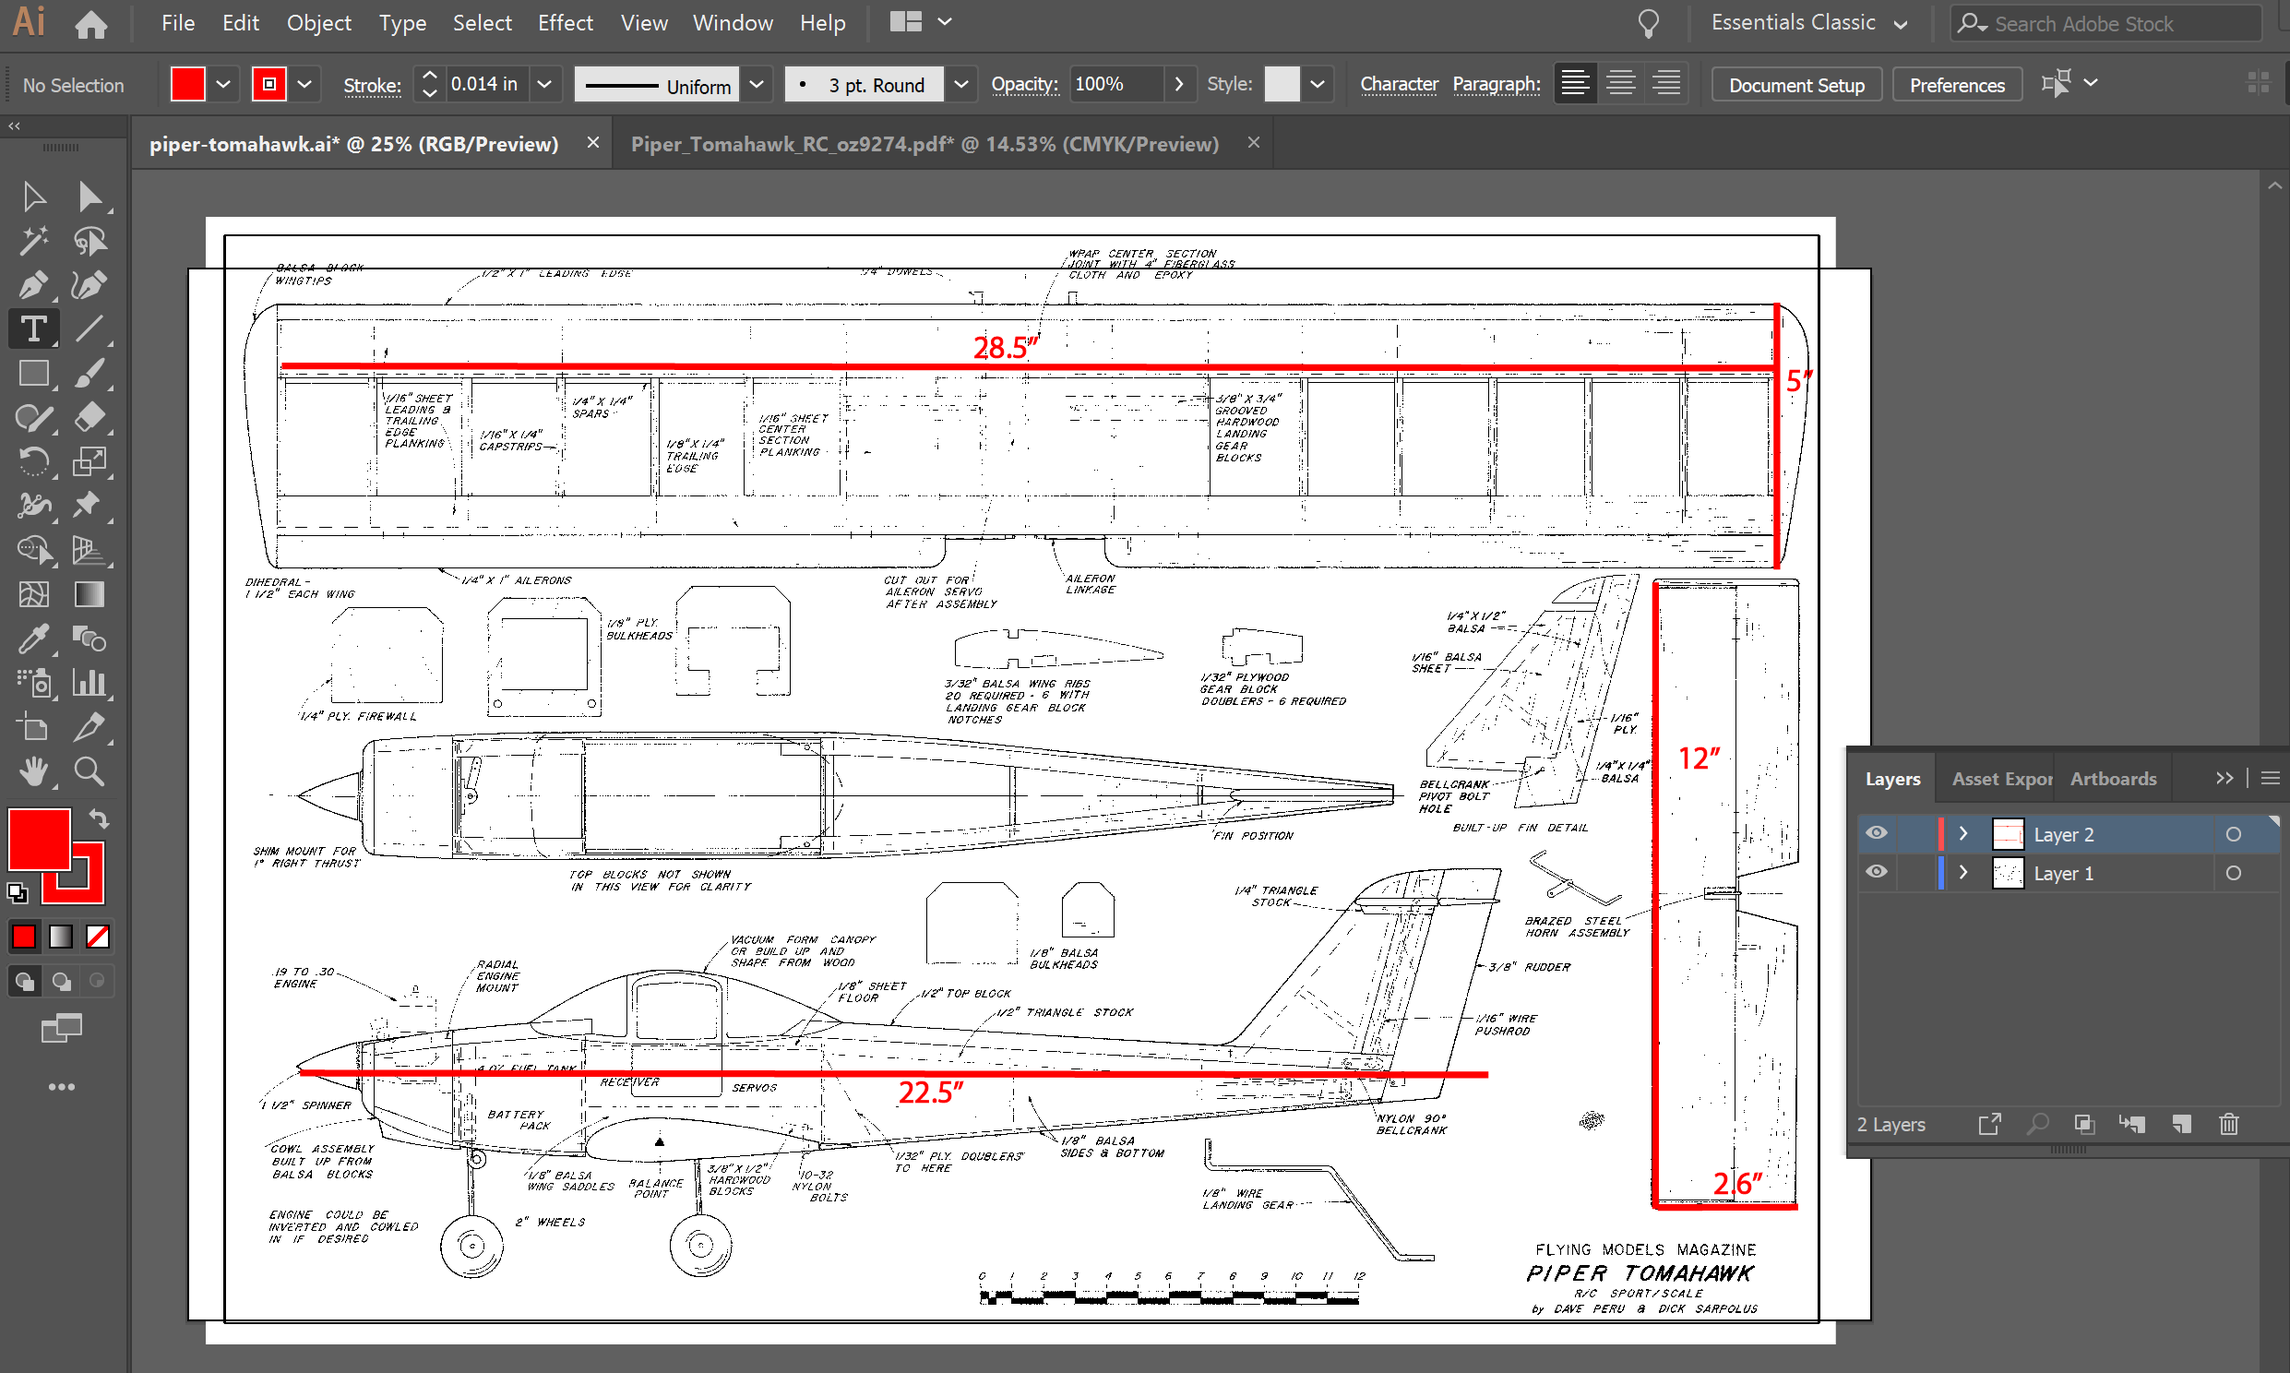
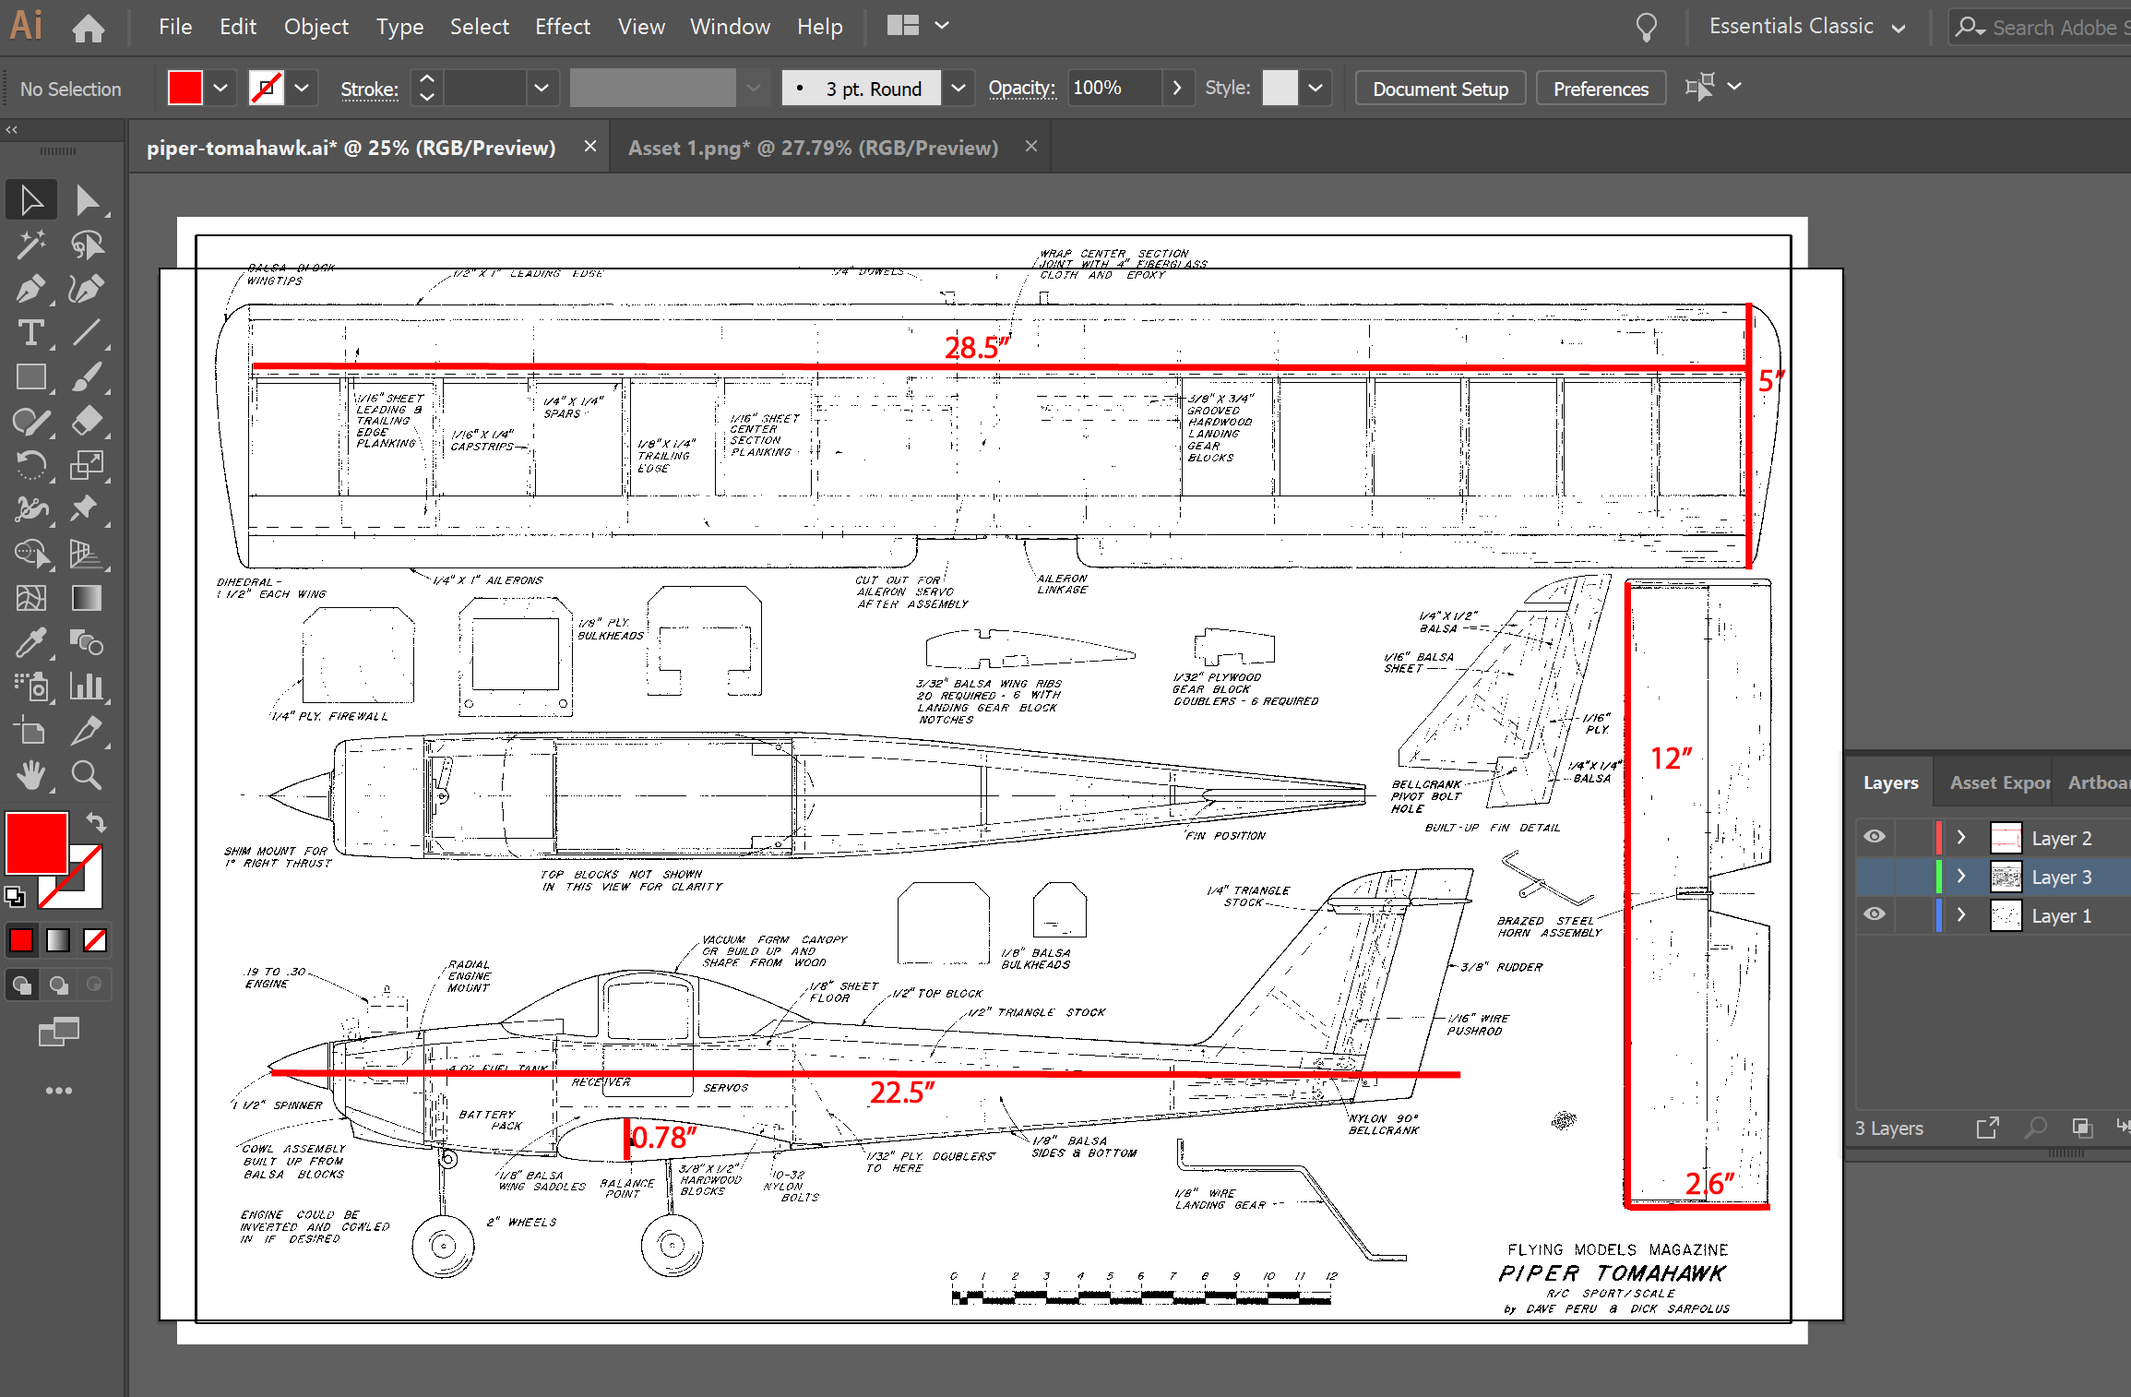
Almost ready to cad a wing.

diff --git a/assignment7.html b/assignment7.html
@@ -792,7 +792,7 @@
               <li>Use specialized airfoils for the basic shape</li>
               <li>
                 Lay a 3d-printed "adaptor" on the top that has an
-                assingment 3 style groove for the airofil side and a
+                assingment 3 style groove for the airfoil side and a
                 round hole on the other side for attaching the prop.
               </li>
             </ul>
@@ -824,7 +824,7 @@
           <li><strong>Download the Plans.</strong>
             Came as JPG, so far, so good.
           </li>
-          <li><strong>Isolate an Airofil.</strong>
+          <li><strong>Isolate an airfoil.</strong>
             Open in Paint.net (Right-click/Edit in Win10), select an airfoil
             from the overall plans, copy.
           </li>
@@ -890,7 +890,7 @@
         <p>
           Next, I'll grab that airfoil I made earlier, set the chord length
           to 154 mm, import into OnShape, and see if I can scale my fowler flap mechansim from
-          Assingment 4 to fit. Nice, OnShape interpreted my 154 mm airofil as
+          Assingment 4 to fit. Nice, OnShape interpreted my 154 mm airfoil as
           8037mm.
         </p>
 
@@ -1004,203 +1004,212 @@
           <strong>8:49 pm What's the biggest airfoil I can make with FR-1?</strong>
           The standard size is 100 x 70mm, which yields a max chord lenth of
           about 122 mm according to Pythagoras, so trim it to
-          <strong> 118 mm </strong>  to allow some  slop on the ends. Only the a
-          irofils near the tips are that small, so <strong> airfoils that
-            connect to flaps and ailerons will need to be Acrylic.</strong>
-            The ailerons and flaps themselves? Those could be FR-1.
-          </p>
+          <strong> 118 mm </strong>
+          to allow some  slop on the ends. Only the a
+          irofils near the tips are that small, so
+          <strong>
+            airfoils that
+            connect to flaps and ailerons will need to be Acrylic.
+          </strong>
+          The ailerons and flaps themselves? Those could be FR-1.
+        </p>
 
-          <p><strong>What will my linkages look like?</strong>
-            The simple "hinge-type" linkages for ailrons, elevons and rudders
-            will involve a "wing airfoil" made of 1/8 inch Acrylic connected to
-            a small "control surface airfoii" mae fo FR-1 with a single pin. Fowler
-            flaps would also involve a 1/8 inch Acrylic "wing airfoil" connected
-            to an FR-1 "flap airfoil," but there would be multiple FR1 linkages
-            in between. Pulling up one of the images from Assingment 4 ...
-          </p>
+        <p><strong>What will my linkages look like?</strong>
+          The simple "hinge-type" linkages for ailrons, elevons and rudders
+          will involve a "wing airfoil" made of 1/8 inch Acrylic connected to
+          a small "control surface airfoii" mae fo FR-1 with a single pin. Fowler
+          flaps would also involve a 1/8 inch Acrylic "wing airfoil" connected
+          to an FR-1 "flap airfoil," but there would be multiple FR1 linkages
+          in between. Pulling up one of the images from Assingment 4 ...
+        </p>
 
-          <figure>
-            <img src ="img/hcde598-hw04-pic33-link-alignment.png" width=400>
-            <figcaption>  Blast from the past.</figcaption>
-          </figure>
+        <figure>
+          <img src ="img/hcde598-hw04-pic33-link-alignment.png" width=400>
+          <figcaption>  Blast from the past.</figcaption>
+        </figure>
 
-          <p>
-            Checking each Pin I have ....
-          </p>
+        <p>
+          Checking each Pin I have ....
+        </p>
 
-          <iframe height=400 width=400 src="https://docs.google.com/spreadsheets/d/e/2PACX-1vSfr58PI84Lw0bxRB_hDwB3S58EXNLZKKuDSBa_54sS-jRydxPhODfZBCpM8ejxprT9Q3RlNjXX1Q0k/pubhtml?gid=1409531949&amp;single=true&amp;widget=true&amp;headers=false">
-          </iframe>
+        <iframe height=400 width=400 src="https://docs.google.com/spreadsheets/d/e/2PACX-1vSfr58PI84Lw0bxRB_hDwB3S58EXNLZKKuDSBa_54sS-jRydxPhODfZBCpM8ejxprT9Q3RlNjXX1Q0k/pubhtml?gid=1409531949&amp;single=true&amp;widget=true&amp;headers=false">
+        </iframe>
 
-          <p>
-            Ok, that confirms every linkage is either FR1-FR1 or FR1-Acryllic;
-            no other combinations.  Now I know I'm looking for mmaterial
-            thickness of <strong> 0.13 and 0.19 inches</strong> (unless and until
-            yet another brain burp convinces me otherwise).
-          </p>
+        <p>
+          Ok, that confirms every linkage is either FR1-FR1 or FR1-Acryllic;
+          no other combinations.  Now I know I'm looking for mmaterial
+          thickness of <strong> 0.13 and 0.19 inches</strong> (unless and until
+          yet another brain burp convinces me otherwise).
+        </p>
 
-          <p>
-            <em>Now</em> Let's go back to McMaster-Carr.
-          </p>
+        <p>
+          <em>Now</em> Let's go back to McMaster-Carr.
+        </p>
 
-          <iframe  height=240 width=400 src="https://docs.google.com/spreadsheets/d/e/2PACX-1vSfr58PI84Lw0bxRB_hDwB3S58EXNLZKKuDSBa_54sS-jRydxPhODfZBCpM8ejxprT9Q3RlNjXX1Q0k/pubhtml?gid=570750315&amp;single=true&amp;widget=true&amp;headers=false">
-          </iframe>
+        <iframe  height=240 width=400 src="https://docs.google.com/spreadsheets/d/e/2PACX-1vSfr58PI84Lw0bxRB_hDwB3S58EXNLZKKuDSBa_54sS-jRydxPhODfZBCpM8ejxprT9Q3RlNjXX1Q0k/pubhtml?gid=570750315&amp;single=true&amp;widget=true&amp;headers=false">
+        </iframe>
 
-          <p>
-            Okay, I'm liking this. Two choices for each thickenss.  I'll be
-            committed to Click-Lock shanks for Acrylic-to-FR1 connections, but
-            will have a choice between Click-Lock and Arrow for FR1-to-FR1.
-            Now I'm gonna take a break, think things over then place the order if
-            I'm still feeling good about it.
-          </p>
-
-
-        </div>
-
-        <!-- 10:15pm Finally Order Parts -->
-        <div id = "day-04-10:15pm-order-parts">
-          <h3>10:15-10:40pm Order the Parts (Finally) </h3>
-          <p>
-            FR-1 will arrive from Amazon Thurday May 30; Push Rivets will
-            arrive Wednseday May 29. I'll be ready to all-day-fab-days on
-            Saturday and Sunday.
-          </p>
-
-        </div>
-
-      </div> <!-- day 4 -->
+        <p>
+          Okay, I'm liking this. Two choices for each thickenss.  I'll be
+          committed to Click-Lock shanks for Acrylic-to-FR1 connections, but
+          will have a choice between Click-Lock and Arrow for FR1-to-FR1.
+          Now I'm gonna take a break, think things over then place the order if
+          I'm still feeling good about it.
+        </p>
 
 
+      </div>
 
-      <!-- ***************  DAY FIVE  *************** -->
+      <!-- 10:15pm Finally Order Parts -->
+      <div id = "day-04-10:15pm-order-parts">
+        <h3>10:15-10:40pm Order the Parts (Finally) </h3>
+        <p>
+          FR-1 will arrive from Amazon Thurday May 30; Push Rivets will
+          arrive Wednseday May 29. I'll be ready to all-day-fab-days on
+          Saturday and Sunday.
+        </p>
 
-      <div id="day-05">
+      </div>
 
-        <h2>DAY FIVE The Wing's Not The Thing; Turn Back to Tomahawk</h2>
-        <ul>
-          <li>Date: <strong>Tuesday 5/28/19</strong></li>
-          <li>Time: <strong>9:05pm-?????</strong></li>
-          <li>Location: <strong>Home (Sammamish, WA)</strong></li>
-          <li>Goals:
-            <ul>
-              <strong>
-                <li>Finish the Pitch</li>
-                <li>Start Some Cad</li>
-              </strong>
-            </ul>
-          </li>
-          <li>Steps Planned:
-            <ol><strong>
-              <li> Finish the Pitch</li>
-              <li> CAD up the basic wings </li>
-              <li> CAD up a flat fuselage</li>
-            </strong></ol>
-          </li>
+    </div> <!-- day 4 -->
 
-          <li>Steps Taken:
-            <ol><strong>
-              <li> This one </li>
-              <li> That one </li>
-            </strong></ol>
-          </li>
 
-          <li>Roadblocks & Impacts:
+
+    <!-- ***************  DAY FIVE  *************** -->
+
+    <div id="day-05">
+
+      <h2>DAY FIVE The Wing's Not The Thing; Turn Back to Tomahawk</h2>
+      <ul>
+        <li>Date: <strong>Tuesday 5/28/19</strong></li>
+        <li>Time: <strong>9:05pm-11:28pm</strong></li>
+        <li>Location: <strong>Home (Sammamish, WA)</strong></li>
+        <li>Goals:
+          <ul>
             <strong>
-              Been thrashing between Flying Wing and Tomahawk.  Need to make a
-              decision & stick to it. Worried about really being ready for 100%
-              fab ty Saturday monring.
+              <li>Finish the Pitch</li>
+              <li>Start Some Cad</li>
+            </strong>
+          </ul>
+        </li>
+        <li>Steps Planned:
+          <ol><strong>
+            <li> Finish the Pitch</li>
+            <li> CAD up the basic wings </li>
+            <li> CAD up a flat fuselage</li>
+          </strong></ol>
+        </li>
+
+        <li>Steps Taken:
+          <ol><strong>
+            <li> This one </li>
+            <li> That one </li>
+          </strong></ol>
+        </li>
+
+        <li>Roadblocks & Impacts:
+          <strong>
+            Been thrashing between Flying Wing and Tomahawk.  Need to make a
+            decision & stick to it. Worried about really being ready for 100%
+            fab ty Saturday monring.
           </strong>
         </li>
-          <li>Satisfaction (1-5): <strong>3 (worried about deadlines.)</strong></li>
-        </ul>
+        <li>Satisfaction (1-5): <strong>3 (worried about deadlines.)</strong></li>
+      </ul>
 
-        <h3>Finish up Slides Already</h3>
+      <h3>Finish up Slides Already</h3>
 
-        <p>
-          Updated BOM & Sourdinb shedule to reflec t part I alrready have on oder.
-          Tweak Techniques & materials to hype up parmateric wings and 2D vs 3D
-          CAD. Also added a third slide for the wing idea. That should do it.
-        </p>
+      <p>
+        Updated BOM & Sourdinb shedule to reflec t part I alrready have on oder.
+        Tweak Techniques & materials to hype up parmateric wings and 2D vs 3D
+        CAD. Also added a third slide for the wing idea. That should do it.
+      </p>
 
-        <h3>On to CADDING</h3>
+      <h3>On to CADDING</h3>
 
+      <p>
+        <strong>Figure out the Main Dimensions</strong>
+        Similar to what I did for the Northrop Wing. Constrain it to about 32
+        inches wide so it fits on either laser cutton in the MILL, and also
+        one of them at Fluke. So really that's
+        <strong> 30 inches max </strong>
+        to allow some slop at the edges.  Now, pull those plans into
+        Adobe Ilustrator so I can figure out dimensions of the rest of  the
+        parts.
+      </p>
 
-        <p>
-          <strong>Figure out the Main Dimensions</strong>
-          Similar to what I did for the Northrop Wing. Constrain it to about 32
-          inches wide so it fits on either laser cutton in the MILL, and also
-          one of them at Fluke. So really that's
-           <strong> 30 inches max </strong>
-           to allow some slop at the edges.  Now, pull those plans into
-           Adobe Ilustrator so I can figure out dimensions of the rest of  the
-           parts.
-        </p>
-
-        <p>
-          <strong>Find a Plan to Make a Plan</strong>
-          As with the Nothrop Flying Wing, Imma need some plans. A bit of googling
-          brought mulitple promising candidates, but my fave once again came from
-          <a href ="https://outerzone.co.uk/plan_details.asp?ID=9274">
+      <p>
+        <strong>Find a Plan to Make a Plan</strong>
+        As with the Nothrop Flying Wing, Imma need some plans. A bit of googling
+        brought mulitple promising candidates, but my fave once again came from
+        <a href ="https://outerzone.co.uk/plan_details.asp?ID=9274">
           outerzone.co.uk
         </a>
         again.
-        </p>
+      </p>
 
-        <figure>
-          <img src ="img/hcde598-hw07-pic05-piper-tomahawk-plans.png" width=800>
-          <figcaption>
-            Now <em>this</em> I can use. Original at
-            <a href ="https://outerzone.co.uk/plan_details.asp?ID=9274">
+      <figure>
+        <img src ="img/hcde598-hw07-pic05-piper-tomahawk-plans.png" width=800>
+        <figcaption>
+          Now <em>this</em> I can use. Original at
+          <a href ="https://outerzone.co.uk/plan_details.asp?ID=9274">
             outerzone.co.uk
           </a>
-          </figcaption>
-        </figure>
+        </figcaption>
+      </figure>
 
-        <p>
-          Download the plans as native PDF, open Adobe Illustrator and with a
-          blank 32x22 inch document, impor the PDF and ...
-        </p>
+      <p>
+        Download the plans as native PDF, open Adobe Illustrator and with a
+        blank 32x22 inch document, impor the PDF and ...
+      </p>
 
-        <figure>
-          <img src ="img/hcde598-hw07-pic05-piper-tomahawk-plans-in-ai.png" width=800>
-          <figcaption>
-            Plan boundaries overshoot in Y, but the actual drawing fits.
-          </figcaption>
-        </figure>
+      <figure>
+        <img src ="img/hcde598-hw07-pic05-piper-tomahawk-plans-in-ai.png" width=800>
+        <figcaption>
+          Plan boundaries overshoot in Y, but the actual drawing fits.
+        </figcaption>
+      </figure>
 
-        <p>
-          Add some lines, measure, and markup.  Use Illustrator's layering features
-          to isolate dimensions form the drawing.
-        </p>
+      <p>
+        Add some lines, measure, and markup.  Use Illustrator's layering features
+        to isolate dimensions form the drawing.
+      </p>
 
-        <figure>
-          <img src ="img/hcde598-hw07-pic05-piper-tomahawk-plans-dimensioned.png"  width=800>
-          <figcaption>
-            28.5 x 5 inch wing; 12 x 2.6 inch stabilizer; 22.5 inch fuselage
-          </figcaption>
-        </figure>
+      <figure>
+        <img src ="img/hcde598-hw07-pic05-piper-tomahawk-plans-dimensioned.png"  width=800>
+        <figcaption>
+          28.5 x 5 inch wing; 12 x 2.6 inch stabilizer; 22.5 inch fuselage
+        </figcaption>
+      </figure>
 
-        <p>
-          <strong>Vectorize</strong>
-          Using the same technique as for the Northrop wing, added the Tomahawk
-          plans into Illustrator <em>as an image.</em>  Then use Object Menu >
-          Image Trace > Expand. Export as SVG (DXF wasn't availabe) this time.
-          Pulls into Rhno just fine, where I can use control point curves to trace
-          out the fuselage.
-        </p>
+      <p>
+        <strong>Vectorize</strong>
+        Using the same technique as for the Northrop wing, added the Tomahawk
+        plans into Illustrator <em>as an image.</em>  Then use Object Menu >
+        Image Trace > Expand. Export as SVG (DXF wasn't availabe) this time.
+        Pulls into Rhno just fine, where I can use control point curves to trace
+        out the fuselage.
+      </p>
 
-        <figure>
-          <img src ="img/hcde598-hw07-pic06-piper-tomahawk-plans-rhino.png"  width=800>
-          <figcaption>
-            Tomahawk Plans in Rhino, with Extracted Fuselage.
-          </figcaption>
-        </figure>
+      <figure>
+        <img src ="img/hcde598-hw07-pic06-piper-tomahawk-plans-rhino.png"  width=800>
+        <figcaption>
+          Tomahawk Plans in Rhino, with Extracted Fuselage.
+        </figcaption>
+      </figure>
 
-        
+      <h3>Settle Down and CAD a Wing</h3>
+      <p>
+        It's gonna be 28.5" span, 5" long airfoils 0.78" thick. Horizonatl stabilizer
+        will b 12" by 2;6" with an unusually thick airfoil so O can make an elevator.
+      </p>
 
-      </div> <!-- day 5 -->
 
 
-    </div> <!--widebody-->
+    </div> <!-- day 5 -->
 
-  </body>
-  </html>
+
+  </div> <!--widebody-->
+
+</body>
+</html>
